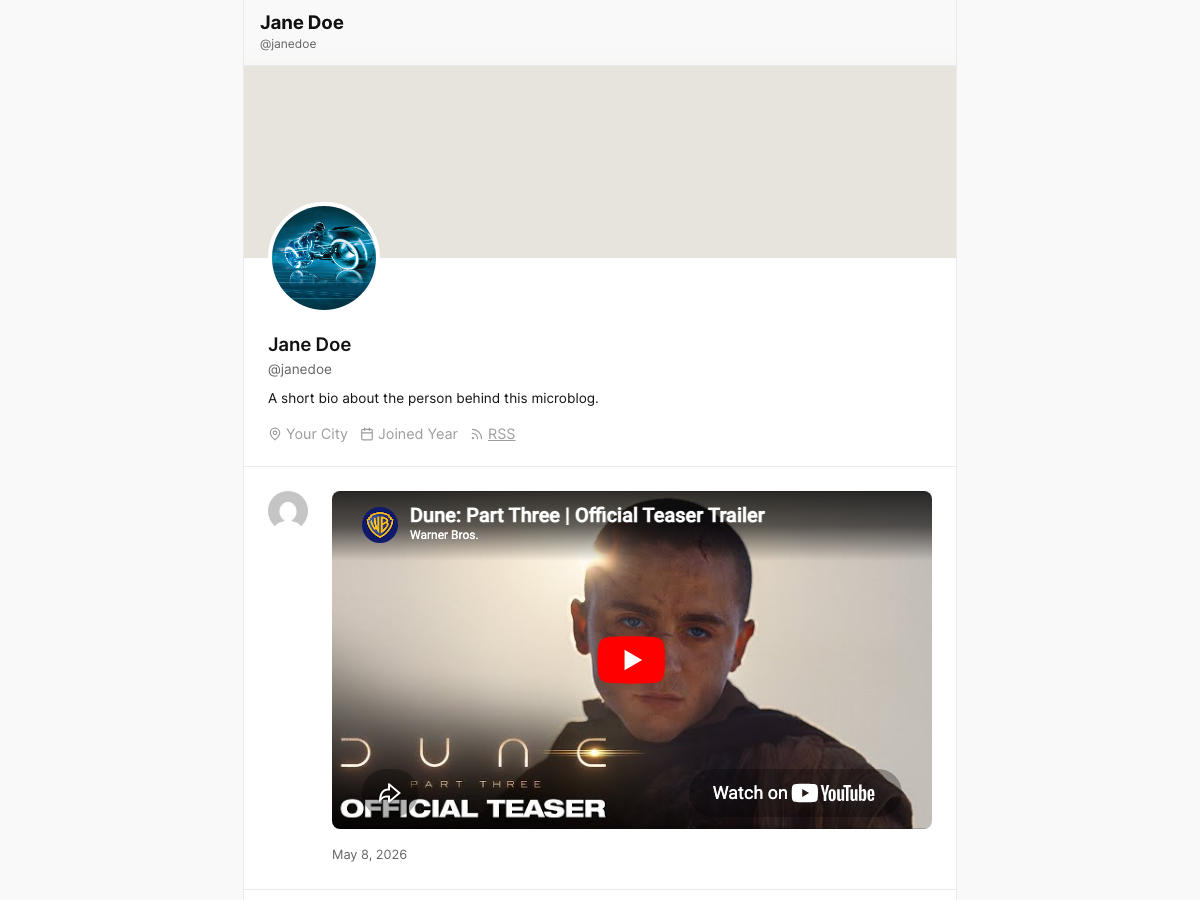
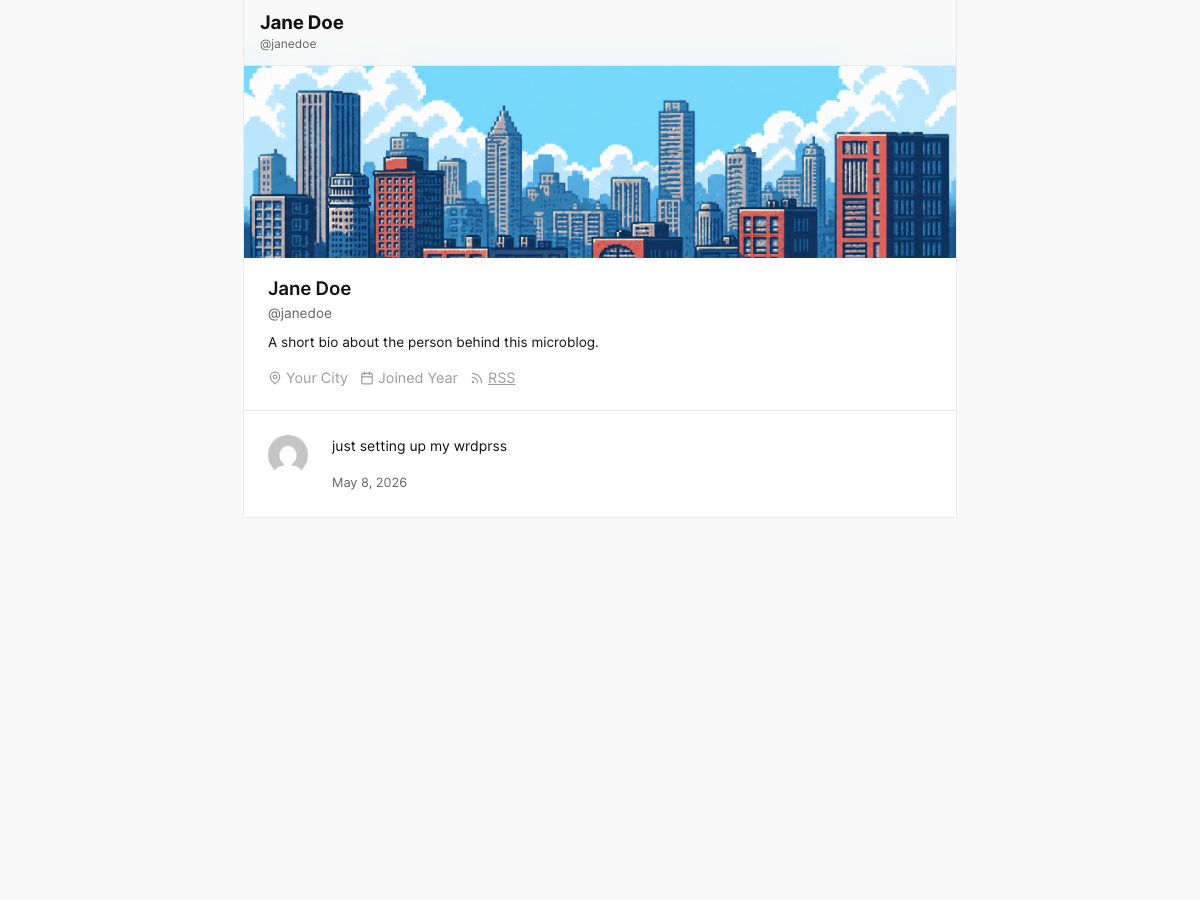
Simplify screenshots in README
Drop the Screenshots section and the .github/screenshots
duplicates. The README hero now points at screenshot.png,
which is the image WordPress also uses in the theme picker,
so there's a single source of truth. Re-taken with the
banner image visible.

diff --git a/parts/header.html b/parts/header.html
@@ -4,8 +4,8 @@
   <!-- wp:group {"className":"header-inner","style":{"border":{"color":"var(--wp--preset--color--custom-border-light)","width":"1px"},"spacing":{"padding":{"top":"0","right":"0","bottom":"0","left":"0"}}},"layout":{"type":"flex","orientation":"vertical","flexWrap":"nowrap"}} -->
   <div class="wp-block-group header-inner has-border-color is-vertical is-layout-flex" style="border-color:var(--wp--preset--color--custom-border-light);border-width:1px;padding-top:0;padding-right:0;padding-bottom:0;padding-left:0">
 
-    <!-- wp:cover {"customOverlayColor":"#cfcabe","dimRatio":100,"className":"header-banner","style":{"spacing":{"padding":{"top":"0","right":"0","bottom":"0","left":"0"}},"dimensions":{"minHeight":"150px"}},"layout":{"type":"default"}} -->
-    <div class="wp-block-cover header-banner" style="padding-top:0;padding-right:0;padding-bottom:0;padding-left:0;min-height:150px"><span aria-hidden="true" class="wp-block-cover__background has-background-dim" style="background-color:#cfcabe"></span><div class="wp-block-cover__inner-container is-layout-flow wp-block-cover-is-layout-flow"></div></div>
+    <!-- wp:cover {"url":"/wp-content/uploads/2026/05/8bit-.png","dimRatio":0,"className":"header-banner","style":{"spacing":{"padding":{"top":"0","right":"0","bottom":"0","left":"0"}},"dimensions":{"minHeight":"200px"}},"layout":{"type":"default"}} -->
+    <div class="wp-block-cover header-banner" style="padding-top:0;padding-right:0;padding-bottom:0;padding-left:0"><img class="wp-block-cover__image-background" alt="" src="/wp-content/uploads/2026/05/8bit-.png" data-object-fit="cover"/><span aria-hidden="true" class="wp-block-cover__background has-background-dim-0 has-background-dim"></span><div class="wp-block-cover__inner-container"></div></div>
     <!-- /wp:cover -->
 
     <!-- wp:group {"className":"header-content","style":{"spacing":{"padding":{"top":"0","right":"24px","bottom":"24px","left":"24px"},"margin":{"top":"0","bottom":"0"}}},"layout":{"type":"constrained"}} -->

diff --git a/README.md b/README.md
@@ -4,7 +4,7 @@ A minimal personal microblog block theme for WordPress.
 
 Microblog turns a WordPress site into a single-author, Twitter-style feed: short posts stacked in cards, a profile header, no sidebars, no clutter. It's a full block theme — every part is editable from the Site Editor.
 
-![Microblog feed](.github/screenshots/home.png)
+![Microblog feed](screenshot.png)
 
 ## Features
 
@@ -18,12 +18,6 @@ Microblog turns a WordPress site into a single-author, Twitter-style feed: short
 - **Variable web fonts** — Inter (body) and Cardo (headings) loaded from [Bunny Fonts](https://fonts.bunny.net/) (GDPR-friendly, no Google Fonts).
 - **Mobile-first top bar** that stays in document flow on mobile and scrolls with the page.
 - **Light, semantic palette** with Base / Contrast / Accent slots that you can override from Site Editor → Styles.
-
-## Screenshots
-
-| Desktop | Mobile |
-| --- | --- |
-| ![Desktop](.github/screenshots/home.png) | ![Mobile](.github/screenshots/mobile.png) |
 
 ## Requirements
 
